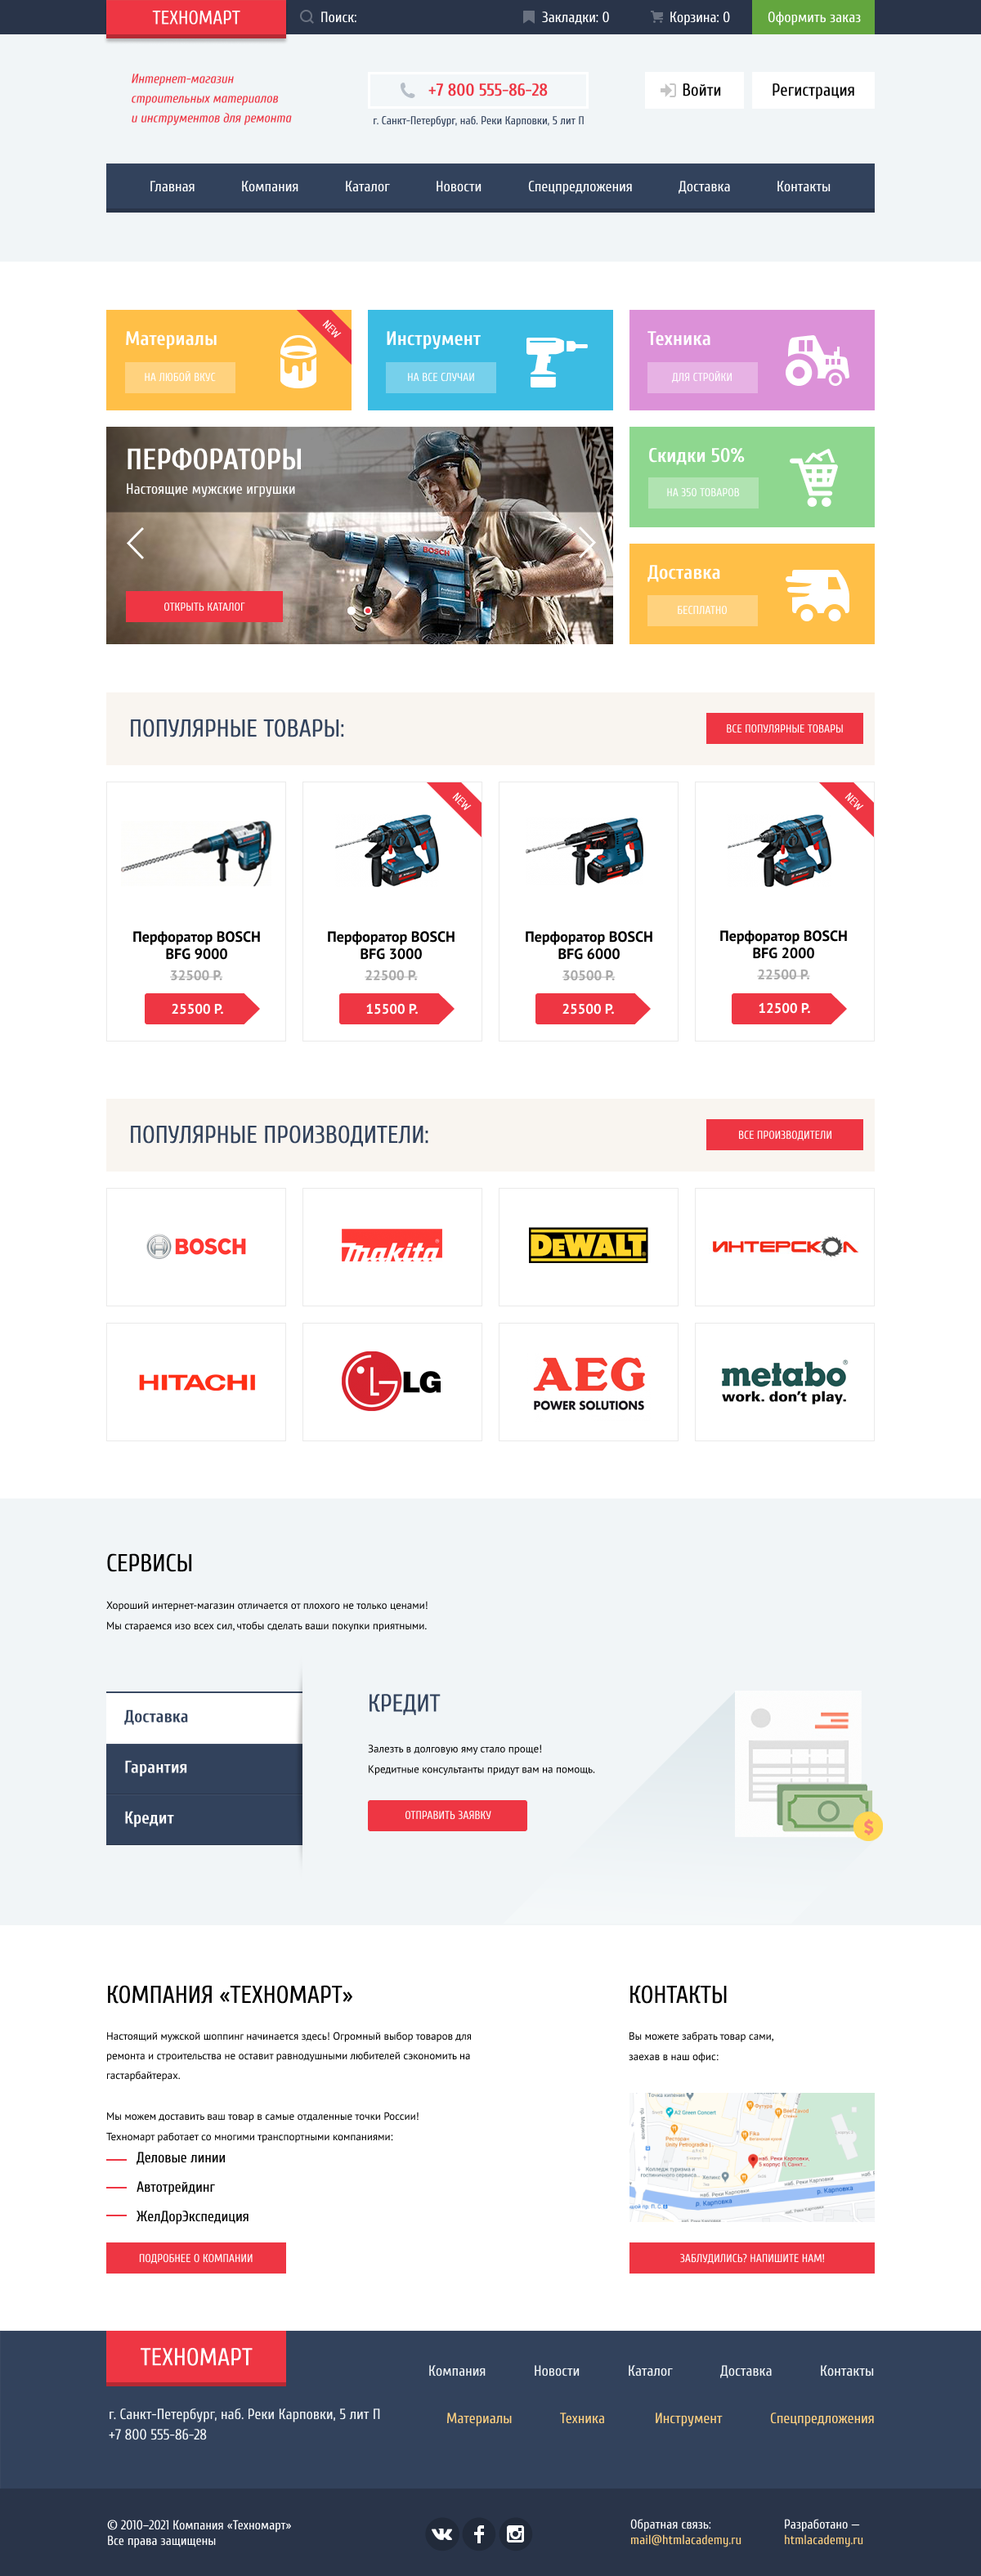
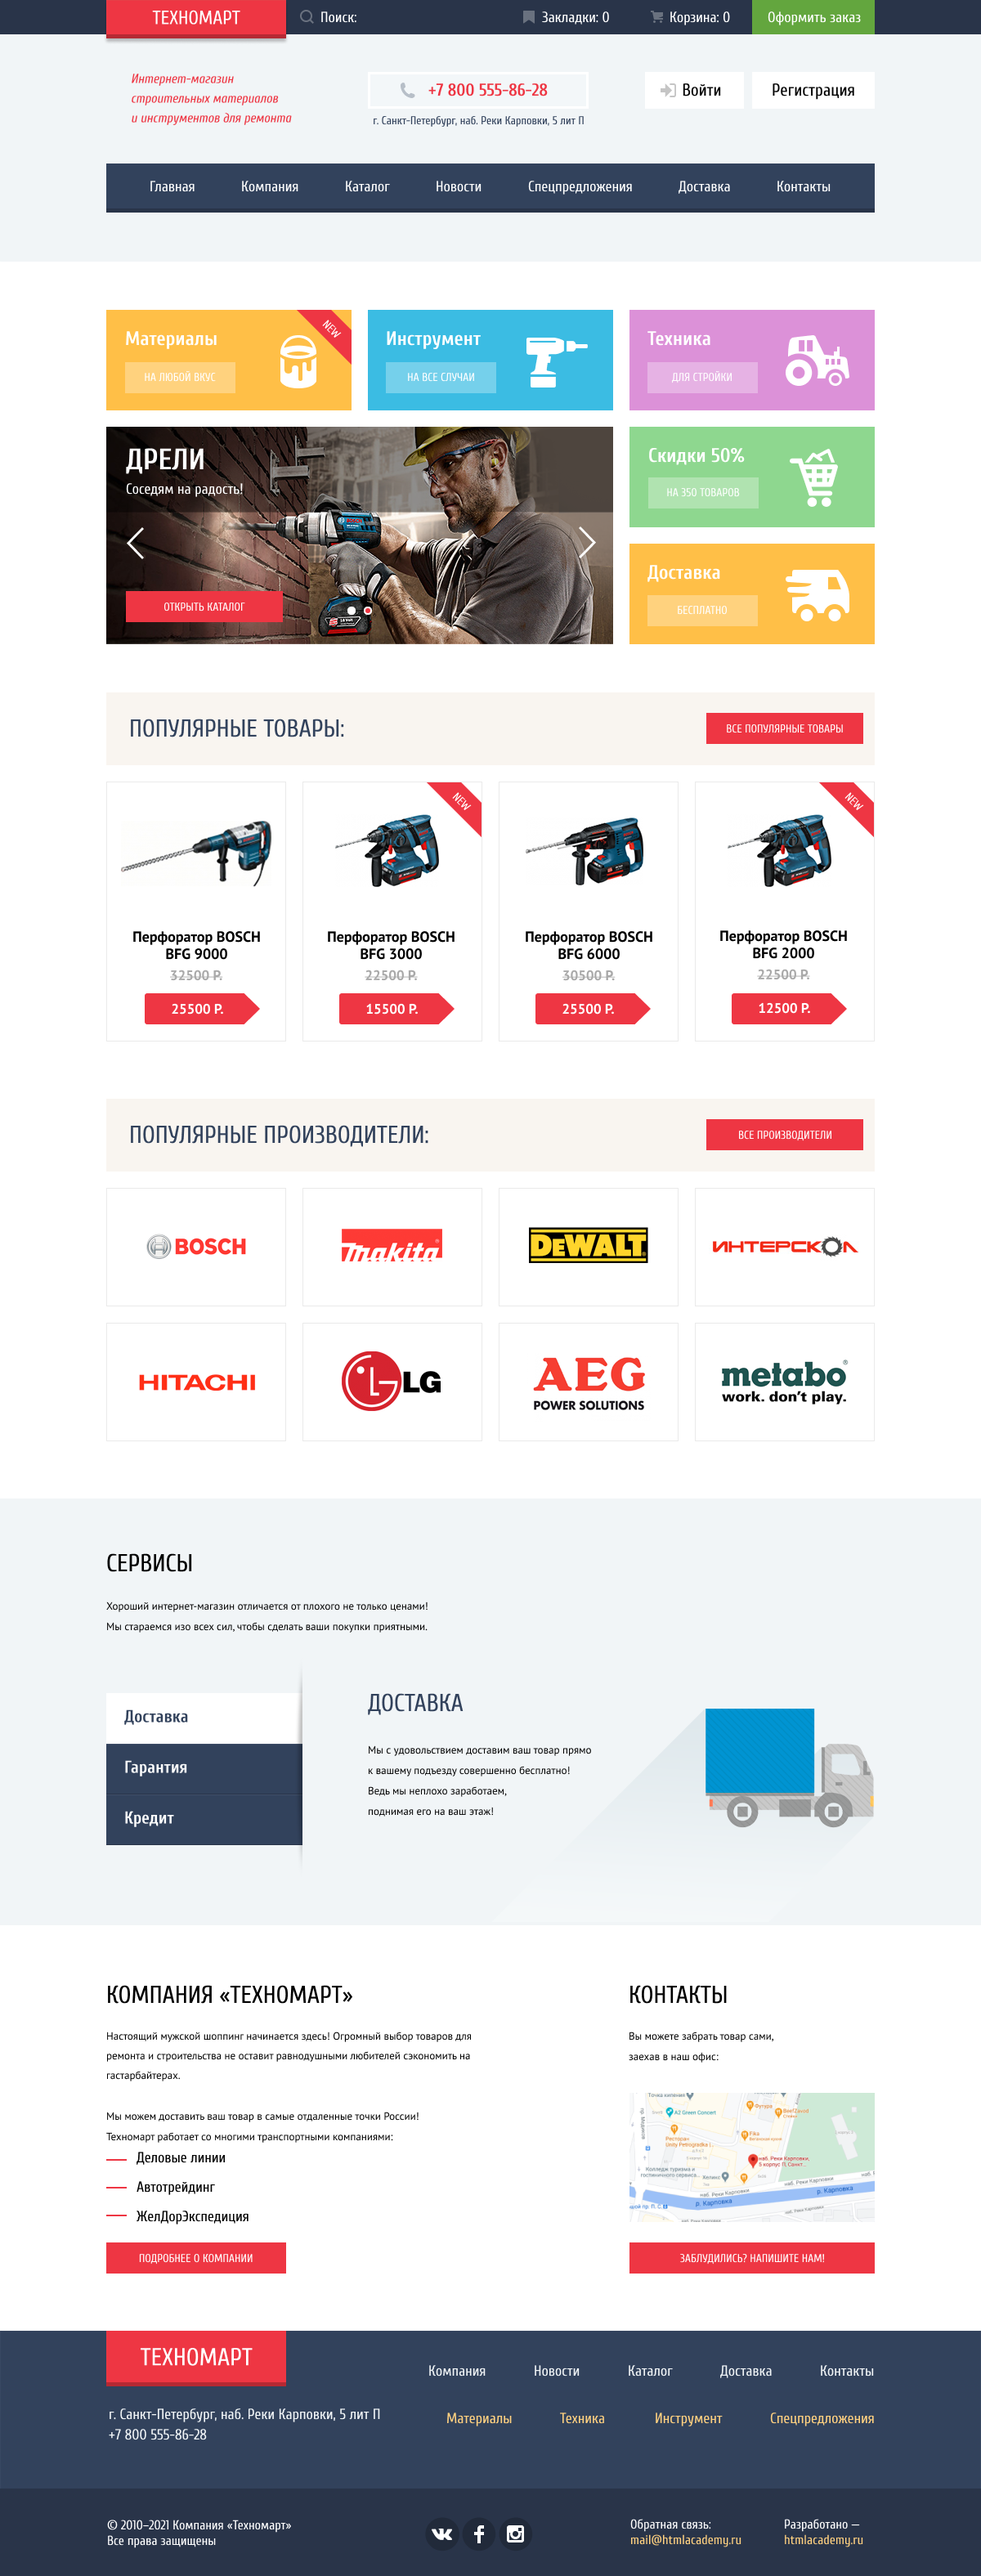
section services finished

diff --git a/HTML1/technomart/index.html b/HTML1/technomart/index.html
@@ -20,7 +20,7 @@
             <img class="logo-image" src="img/logo-header.png" alt="Логотип магазина" width="228" height="55">
           </a>
           <form class="search" action="">
-            <input class="search-text" type="text" value="Поиск:">
+            <input class="search-text" type="text" placeholder="Поиск:">
             <input class="search-btn" type="submit" value="">
           </form>
           <a class="bookmarks-link" href="">Закладки: <span>0</span></a>
@@ -118,8 +118,8 @@
                 </li>
               </ul>
               <div class="slider-control">
-                <div class="slider-left"></div>
-                <div class="slider-right"></div>
+                <button class="slider-left"></button>
+                <button class="slider-right"></button>
                 <div class="control-buttons">
                   <button class="control-button active" aria-label="Переключиться на слайд 1"></button>
                   <button class="control-button" aria-label="Переключиться на слайд 2"></button>
@@ -241,16 +241,23 @@
         <div class="container">
           <div class="services-wrapper">
             <h2 class="services-heading">Сервисы</h2>
-            <p>Хороший интернет-магазин отличается от плохого не только ценами! <br>
+            <p class="services-text">Хороший интернет-магазин отличается от плохого не только ценами! <br>
               Мы стараемся изо всех сил, чтобы сделать ваши покупки приятными.</p>
             <div class="services-inner-wrapper">
               <ul class="services-nav-buttons">
-                <li class="service-nav-button"><button>Доставка</button></li>
-                <li class="service-nav-button"><button>Гарантия</button></li>
-                <li class="service-nav-button"><button>Кредит</button></li>
+                <li class="service-nav-item">
+                  <button class="service-nav-button service-button-active">Доставка</button>
+                </li>
+                <li class="service-nav-item">
+                  <button class="service-nav-button">Гарантия</button>
+                </li>
+                <li class="service-nav-item">
+                  <button class="service-nav-button">Кредит</button>
+                </li>
+                <li class="service-nav-item"><img src="img/services-shadow.png" alt=""></li>
               </ul>
               <div class="servuces-content">
-                <div class="service-delivery-content">
+                <div class="service-delivery-content service-slide">
                   <p class="service-content-header">
                     Доставка
                   </p>
@@ -260,9 +267,9 @@
                     Ведь мы неплохо заработаем, <br>
                     поднимая его на ваш этаж!
                   </p>
-                  <a href="#" class="button service-button">ОТПРАВИТЬ ЗАЯВКУ</a>
+
                 </div>
-                <div class="service-guaranty-content hidden">
+                <div class="service-guaranty-content service-slide hidden">
                   <p class="service-content-header">
                     Гарантия
                   </p>
@@ -273,9 +280,9 @@
                     <br>Мы обменяем сгоревший товар на новый.
                     <br>Дом уж восстановите как-нибудь сами.
                   </p>
-                  <a href="#" class="button service-button">ОТПРАВИТЬ ЗАЯВКУ</a>
+
                 </div>
-                <div class="service-credit-content hidden">
+                <div class="service-credit-content service-slide hidden">
                   <p class="service-content-header">
                     Кредит
                   </p>

diff --git a/HTML1/technomart/css/style.css b/HTML1/technomart/css/style.css
@@ -77,6 +77,7 @@
   --button-cart-shadow: #367315;
   --button-cart-active: #518534;
   --button-bookmark-active: #98A0AD;
+  --service-button-shadow: #405069;
 }
 .body-page {
   font-family: "Cuprum";
@@ -512,6 +513,8 @@
   position: absolute;
   top: 50%;
   transform: translate(0,-28%);
+  border: none;
+  cursor: pointer;
 }
 .slider-left {
   left: 24px;
@@ -570,7 +573,7 @@
 .main-section-button {
   padding: 10px 20px 9px;
   margin-right: -7px;
-  width: 152px;
+  min-width: 152px;
   text-align: center;
 }
 .best-goods-list {
@@ -650,7 +653,7 @@
   content: "";
   display: block;
   border-left: 21px solid var(--basic-red);
-  border-top: 20px solid transparent;
+  border-top: 19px solid transparent;
   border-bottom: 19px solid transparent;
   border-right: 0;
   position: absolute;
@@ -771,8 +774,8 @@
   opacity: 0.5;
 }
 .services {
-  padding-top: 20px;
-  padding-bottom: 20px;
+  padding-top: 95px;
+  padding-bottom: 52px;
   background-color: var(--basic-background);
 }
 .services-heading {
@@ -782,6 +785,101 @@
   font-size: 30px;
   line-height: 30px;
   text-transform: uppercase;
+  margin-top: 10px;
+  margin-bottom: 10px;
+}
+.services-text {
+  font-family: PT Sans;
+  font-style: normal;
+  font-weight: normal;
+  font-size: 13px;
+  line-height: 24px;
+  margin-top: 24px;
+}
+.services-inner-wrapper {
+  display: grid;
+  grid-template-columns: max-content 1fr;
+  column-gap: 80px;
+}
+.services-nav-buttons {
+  margin: 0;
+  list-style: none;
+  padding: 0;
+  padding: 57px 0 49px;
+  position: relative;
+}
+.service-nav-item:last-of-type {
+  position: absolute;
+  top: 0;
+  right: 0;
+  z-index: 100;
+  height: 280px;
+  width: 10px;
+}
+.service-nav-button {
+  font-family: Cuprum;
+  font-style: normal;
+  font-weight: bold;
+  font-size: 21px;
+  line-height: 30px;
+  width: 240px;
+  min-height: 61px;
+  box-sizing: border-box;
+  border: none;
+  border-bottom: 1px solid var(--basic-backgroung2);
+  border-top: 1px solid var(--service-button-shadow);
+  background-color: var(--nav-background);
+  color: var(--white);
+  text-align: left;
+  padding: 5px 20px;
+}
+.service-nav-button:hover {
+  background-color: var(--basic-backgroung2);
+  color: var(--white);
+}
+.service-button-active {
+  border: none;
+  background-color: var(--white);
+  color: var(--nav-background);
+}
+.service-delivery-content {
+  background: url(../img/track.svg) no-repeat 100% 540%;
+  display: flex;
+  flex-direction: column;
+}
+.service-delivery-content {
+  background: url(../img/track.svg) no-repeat 100% 540%;
+  display: flex;
+  flex-direction: column;
+}
+.service-guaranty-content {
+  background: url(../img/100gold.svg) no-repeat 100% 540%;
+  display: flex;
+  flex-direction: column;
+}
+.service-credit-content {
+  background: url(../img/credit.svg) no-repeat 100% 540%;
+  display: flex;
+  flex-direction: column;
+}
+.service-content-header {
+  font-family: Cuprum;
+  font-style: normal;
+  font-weight: normal;
+  font-size: 30px;
+  line-height: 30px;
+  margin-top: 55px;
+  text-transform: uppercase;
+  color: var(--nav-background);
+}
+.service-content-text {
+  font-family: PT Sans;
+  font-style: normal;
+  font-weight: normal;
+  font-size: 13px;
+  line-height: 25px;
+  margin: 0;
+  margin-bottom: 60px;
 }
 .visually-hidden {
   position: absolute;

diff --git a/HTML1/technomart/js/script.js b/HTML1/technomart/js/script.js
@@ -1,0 +1,5 @@
+/* Services */
+let serviceButtons = document.querySelectorAll('.service-nav-button');
+let serviceSlides = document.querySelectorAll('.service-slide');
+
+
